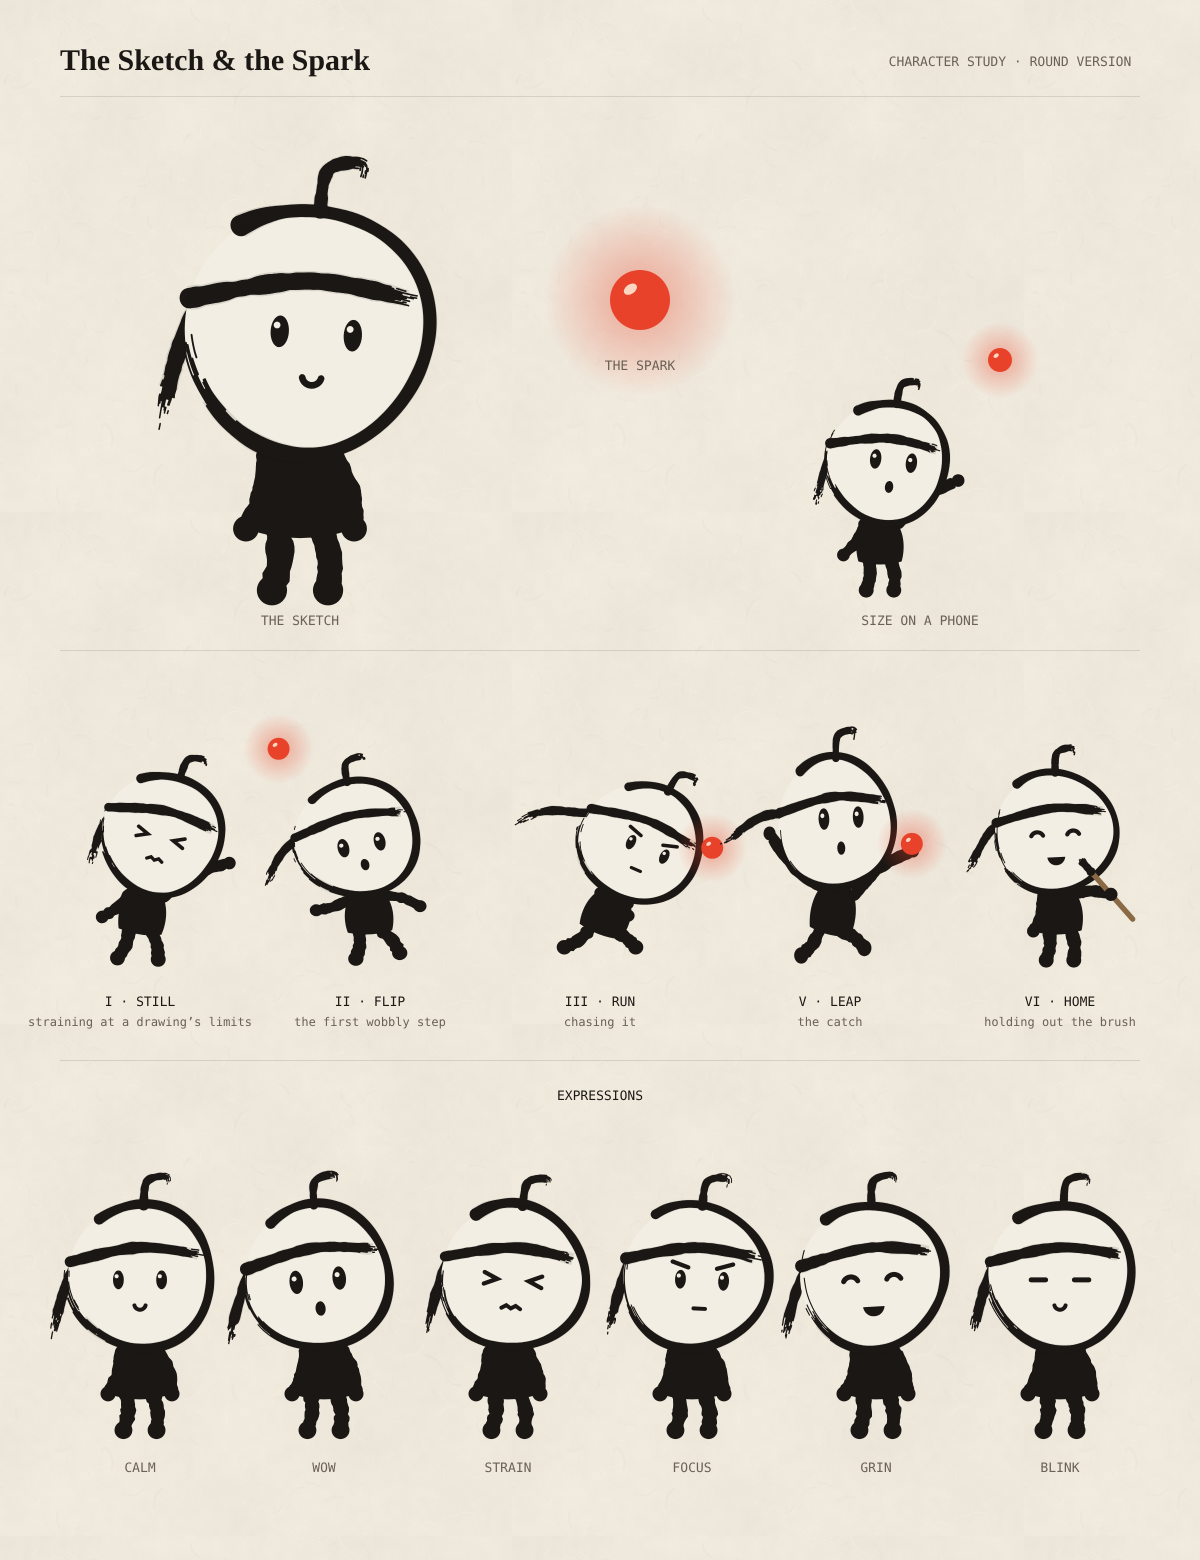
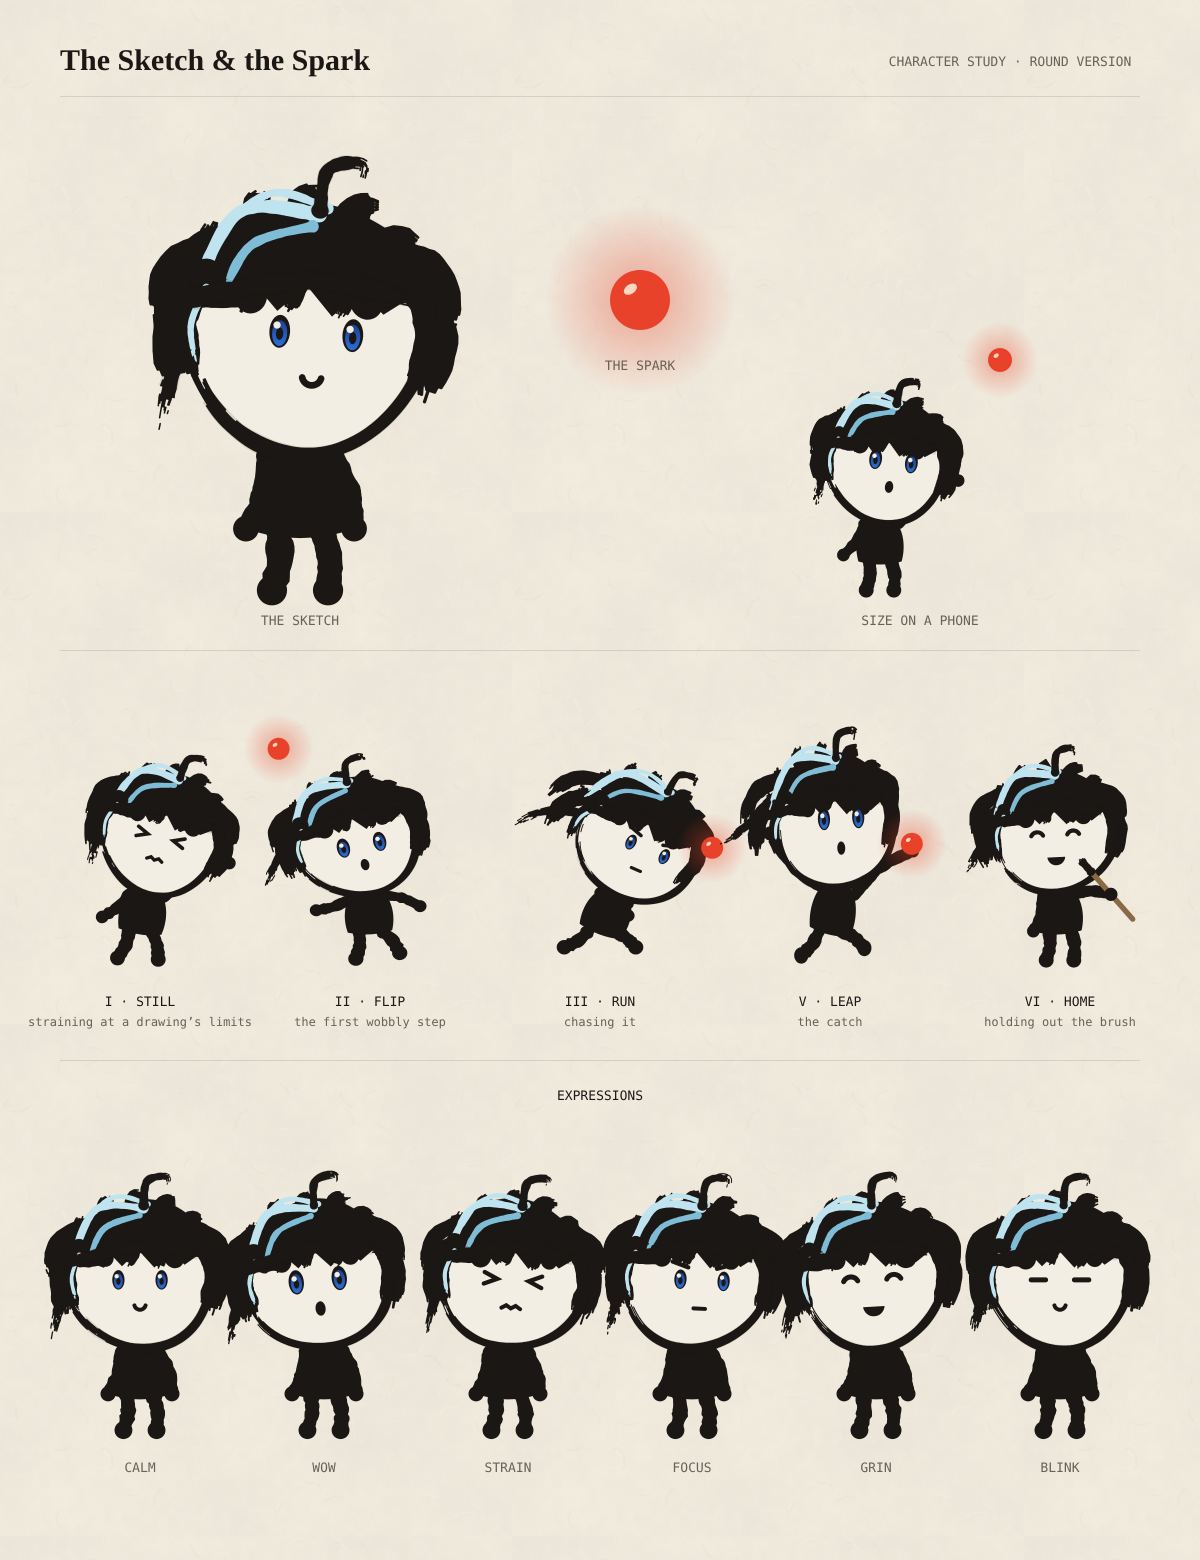
The Sketch (round): longer hair with icy highlights, blue eyes
Claude-Session: https://claude.ai/code/session_01CTrVorkmRxEpZkk6YbYEH3

diff --git a/scripts/sketch/chibi.ts b/scripts/sketch/chibi.ts
@@ -12,6 +12,10 @@ import { type Pt, TAU } from '../../src/core/math';
 export const INK = '#1b1714';
 export const PAPER = '#f3eee3';
 export const RED = '#e8432a';
+/** the icy highlight in the hair, and the eyes */
+export const ICE = '#bfe4f0';
+export const ICE_DEEP = '#7fbcd6';
+export const IRIS = '#2b6fd6';
 
 export interface Pose {
   /** body lean, radians (+ = forward, to the right) */
@@ -101,6 +105,15 @@ export function drawChibi(ctx: CanvasRenderingContext2D, x: number, y: number, s
   }
   brush(ctx, tail, { width: s * 0.13, color: INK, seed: seed + 4, dry: 0.5, press: 1.2, tail: 0.2 });
 
+  // the hair: long locks behind the head, down past the jaw, swept back by the wind
+  const wind = (pt: Pt, k: number): Pt => [pt[0] - p.stream * k * s, pt[1] - p.stream * k * s * 0.25 + Math.sin(p.wave + k * 4) * s * 0.04 * p.stream];
+  const lock = (a: Pt, b: Pt, c: Pt, w: number, k: number, col = INK, sd = 0) =>
+    brush(ctx, [[hc[0] + a[0] * s, hc[1] + a[1] * s], wind([hc[0] + b[0] * s, hc[1] + b[1] * s], k * 0.5), wind([hc[0] + c[0] * s, hc[1] + c[1] * s], k)], { width: w * s, color: col, seed: seed + 50 + sd, dry: 0.25, press: 1.3, tail: 0.04, halo: 0 });
+  lock([-0.6, -0.55], [-1.1, -0.1], [-1.02, 0.66], 0.28, 0.5, INK, 1);
+  lock([-0.35, -0.8], [-1.1, -0.5], [-1.22, 0.18], 0.24, 0.55, INK, 2);
+  lock([0.6, -0.55], [1.08, -0.1], [0.98, 0.62], 0.28, 0.25, INK, 3);
+  lock([0.35, -0.8], [1.08, -0.5], [1.12, 0.12], 0.22, 0.25, INK, 4);
+
   // face plate
   ctx.fillStyle = PAPER;
   ctx.beginPath();
@@ -114,6 +127,32 @@ export function drawChibi(ctx: CanvasRenderingContext2D, x: number, y: number, s
     ring.push([hc[0] + Math.cos(a) * r, hc[1] + Math.sin(a) * r]);
   }
   brush(ctx, ring, { width: s * 0.11, color: INK, seed: seed + 5, dry: 0.35, press: 1.4, tail: 0.5 });
+  // the top of the hair: a dome to the brow, its edge broken into locks
+  ctx.fillStyle = INK;
+  ctx.beginPath();
+  ctx.arc(hc[0], hc[1] - s * 0.02, s * 1.02, Math.PI * 1.06, Math.PI * 1.94);
+  // a ragged brow line, not a bowl cut
+  const brow: Pt[] = [[0.9, -0.36], [0.62, -0.16], [0.42, -0.34], [0.2, -0.12], [-0.02, -0.36], [-0.25, -0.14], [-0.46, -0.36], [-0.68, -0.14], [-0.92, -0.36]];
+  for (const [bx, by] of brow) ctx.lineTo(hc[0] + bx * s, hc[1] + by * s);
+  ctx.closePath();
+  ctx.fill();
+  for (let k = 0; k < 7; k++) {
+    const th = Math.PI * (1.1 + k * 0.133);
+    const tip = 1.13 + ((k * 37) % 5) * 0.015;
+    lock([Math.cos(th) * 0.5, Math.sin(th) * 0.5 - 0.1], [Math.cos(th - 0.1) * 0.98, Math.sin(th - 0.1) * 0.98 - 0.05], [Math.cos(th + 0.1) * tip, Math.sin(th + 0.1) * tip - 0.03], 0.22, Math.cos(th) < 0 ? 0.25 : 0.06, INK, 10 + k);
+  }
+  // icy highlights: long streaks from the crown sweeping down the left side
+  lock([0.05, -0.95], [-0.62, -0.92], [-0.98, -0.12], 0.1, 0.25, ICE, 20);
+  lock([0.0, -0.85], [-0.5, -0.66], [-0.72, -0.2], 0.07, 0.22, ICE_DEEP, 21);
+  lock([0.12, -1.0], [-0.35, -1.1], [-0.82, -0.75], 0.06, 0.2, ICE, 22);
+  // side locks framing the face, down to the jaw
+  lock([-0.84, -0.42], [-0.98, 0.0], [-0.88, 0.55], 0.17, 0.22, INK, 23);
+  lock([0.84, -0.42], [0.98, 0.0], [0.86, 0.52], 0.17, 0.08, INK, 24);
+  lock([-0.84, -0.3], [-0.95, 0.02], [-0.88, 0.36], 0.045, 0.22, ICE, 25);
+  // the fringe, three locks poking out under the band, clear of the eyes
+  [[-0.5, -0.1], [-0.12, -0.13], [0.3, -0.1]].forEach(([fx, fy], i) =>
+    lock([fx + 0.08, -0.5], [fx + 0.03, -0.32], [fx - 0.05, fy], 0.15, 0.04, INK, 30 + i));
+
   // headband across the brow
   brush(ctx, [[hc[0] - s * 0.98, hc[1] - s * 0.2], [hc[0], hc[1] - s * 0.4], [hc[0] + s * 0.96, hc[1] - s * 0.28]], { width: s * 0.14, color: INK, seed: seed + 6, dry: 0.2, press: 1.1, tail: 0.9 });
   // the curl on top
@@ -147,12 +186,24 @@ export function drawChibi(ctx: CanvasRenderingContext2D, x: number, y: number, s
     }
     const big = p.face === 'wow' ? 1.25 : 1;
     ctx.beginPath();
-    ctx.ellipse(X, Y, s * 0.075 * big, s * 0.13 * big, 0, 0, TAU);
+    ctx.ellipse(X, Y, s * 0.085 * big, s * 0.135 * big, 0, 0, TAU);
+    ctx.fill();
+    // a blue iris inside the ink rim, deeper at the top
+    const ig = ctx.createLinearGradient(0, Y - s * 0.1 * big, 0, Y + s * 0.12 * big);
+    ig.addColorStop(0, '#1d3f8f');
+    ig.addColorStop(1, IRIS);
+    ctx.fillStyle = ig;
+    ctx.beginPath();
+    ctx.ellipse(X, Y + s * 0.015 * big, s * 0.062 * big, s * 0.105 * big, 0, 0, TAU);
+    ctx.fill();
+    ctx.fillStyle = INK;
+    ctx.beginPath();
+    ctx.ellipse(X, Y + s * 0.02 * big, s * 0.03 * big, s * 0.05 * big, 0, 0, TAU);
     ctx.fill();
     // the catch-light
     ctx.fillStyle = PAPER;
     ctx.beginPath();
-    ctx.arc(X - s * 0.025, Y - s * 0.05, s * 0.028 * big, 0, TAU);
+    ctx.arc(X - s * 0.025, Y - s * 0.05, s * 0.03 * big, 0, TAU);
     ctx.fill();
     if (p.face === 'focus') {
       // brows down
